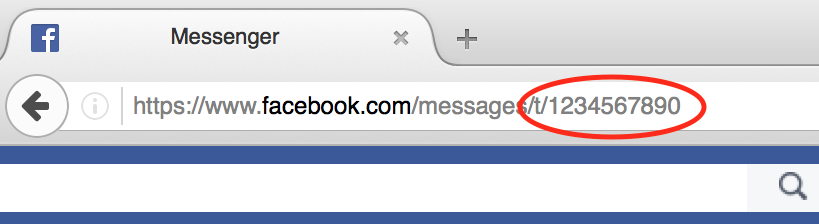
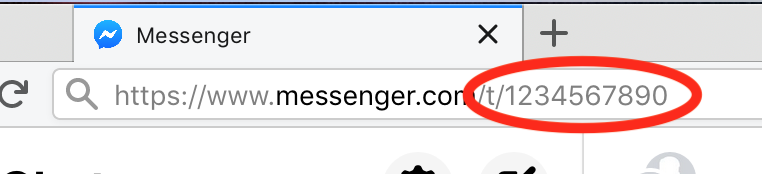
Rewrite introduction documentation

diff --git a/examples/session_handling.py b/examples/session_handling.py
@@ -1,0 +1,42 @@
+# TODO: Consider adding Session.from_file and Session.to_file,
+# which would make this example a lot easier!
+
+import atexit
+import json
+import getpass
+import fbchat
+
+
+def load_cookies(filename):
+    try:
+        # Load cookies from file
+        with open(filename) as f:
+            return json.load(f)
+    except FileNotFoundError:
+        return  # No cookies yet
+
+
+def save_cookies(filename, cookies):
+    with open(filename, "w") as f:
+        json.dump(f, cookies)
+
+
+def load_session(cookies):
+    if not cookies:
+        return
+    try:
+        return fbchat.Session.from_cookies(cookies)
+    except fbchat.FacebookError:
+        return  # Failed loading from cookies
+
+
+cookies = load_cookies("session.json")
+session = load_session(cookies)
+if not session:
+    # Session could not be loaded, login instead!
+    session = fbchat.Session.login("<email>", getpass.getpass())
+
+# Save session cookies to file when the program exits
+atexit.register(lambda: save_cookies("session.json", session.get_cookies()))
+
+# Do stuff with session here

diff --git a/docs/intro.rst b/docs/intro.rst
@@ -1,194 +1,150 @@
-.. _intro:
-
 Introduction
 ============
 
-``fbchat`` uses your email and password to communicate with the Facebook server.
-That means that you should always store your password in a separate file, in case e.g. someone looks over your shoulder while you're writing code.
-You should also make sure that the file's access control is appropriately restrictive
+Welcome, this page will guide you through the basic concepts of using ``fbchat``.
 
+The hardest, and most error prone part is logging in, and managing your login session, so that is what we will look at first.
 
-.. _intro_logging_in:
 
 Logging In
 ----------
 
-Simply create an instance of `Client`. If you have two factor authentication enabled, type the code in the terminal prompt
-(If you want to supply the code in another fashion, overwrite `Client.on_2fa_code`)::
+Everything in ``fbchat`` starts with getting an instance of `Session`. Currently there are two ways of doing that, `Session.login` and `Session.from_cookies`.
 
-    from fbchat import Client
-    from fbchat.models import *
-    client = Client('<email>', '<password>')
+The follow example will prompt you for you password, and use it to login::
 
-Replace ``<email>`` and ``<password>`` with your email and password respectively
+    import getpass
+    import fbchat
+    session = fbchat.Session.login("<email/phone number>", getpass.getpass())
+    # If your account requires a two factor authentication code:
+    session = fbchat.Session.login(
+        "<your email/phone number>",
+        getpass.getpass(),
+        lambda: getpass.getpass("2FA code"),
+    )
 
-.. note::
-    For ease of use then most of the code snippets in this document will assume you've already completed the login process
-    Though the second line, ``from fbchat.models import *``, is not strictly necessary here, later code snippets will assume you've done this
+However, **this is not something you should do often!** Logging in/out all the time *will* get your Facebook account locked!
 
-If you want to change how verbose ``fbchat`` is, change the logging level (in `Client`)
+Instead, you should start by using `Session.login`, and then store the cookies with `Session.get_cookies`, so that they can be used instead the next time your application starts.
 
-Throughout your code, if you want to check whether you are still logged in, use `Client.is_logged_in`.
-An example would be to login again if you've been logged out, using `Client.login`::
+Usability-wise, this is also better, since you won't have to re-type your password every time you want to login.
 
-    if not client.is_logged_in():
-        client.login('<email>', '<password>')
+The following, quite lengthy, yet very import example, illustrates a way to do this:
 
-When you're done using the client, and want to securely logout, use `Client.logout`::
+.. literalinclude:: ../examples/session_handling.py
 
-    client.logout()
+Assuming you have successfully completed the above, congratulations! Using ``fbchat`` should be mostly trouble free from now on!
 
 
-.. _intro_threads:
+Understanding Thread Ids
+------------------------
 
-Threads
--------
+At the core of any thread is its unique identifier, its ID.
 
-A thread can refer to two things: A Messenger group chat (`Group`) or a single Facebook user (`User`).
+A thread basically just means "something I can chat with", but more precisely, it can refer to a few things:
+- A Messenger group thread (`Group`)
+- The conversation between you and a single Facebook user (`User`)
+- The conversation between you and a Facebook Page (`Page`)
 
-Searching for group chats and finding their ID can be done via. `Client.search_for_groups`,
-and searching for users is possible via. `Client.search_for_users`. See :ref:`intro_fetching`
+You can get your own user ID with `Session.user_id`.
 
-You can get your own user ID by using `Session.user_id`
+Getting the ID of a specific group thread is fairly trivial, you only need to login to `<https://www.messenger.com/>`_, click on the group you want to find the ID of, and then read the id from the address bar.
+The URL will look something like this: ``https://www.messenger.com/t/1234567890``, where ``1234567890`` would be the ID of the group.
 
-Getting the ID of a group chat is fairly trivial otherwise, since you only need to navigate to `<https://www.facebook.com/messages/>`_,
-click on the group you want to find the ID of, and then read the id from the address bar.
-The URL will look something like this: ``https://www.facebook.com/messages/t/1234567890``, where ``1234567890`` would be the ID of the group.
-An image to illustrate this is shown below:
+The same method can be applied to some user accounts, though if they have set a custom URL, then you will have to use a different method.
+
+An image to illustrate the process is shown below:
 
 .. image:: /_static/find-group-id.png
     :alt: An image illustrating how to find the ID of a group
 
-The same method can be applied to some user accounts, though if they've set a custom URL, then you'll just see that URL instead
+Once you have an ID, you can use it to create a `Group` or a `User` instance, which will allow you to do all sorts of things. To do this, you need a valid, logged in session::
 
-Here's an snippet showing the usage of thread IDs and thread types, where ``<user id>`` and ``<group id>``
-corresponds to the ID of a single user, and the ID of a group respectively::
+    group = fbchat.Group(session=session, id="<The id you found>")
+    # Or for user threads
+    user = fbchat.User(session=session, id="<The id you found>")
 
-    user.send(Message(text='<message>'))
-    group.send(Message(text='<message>'))
+Just like threads, every message, poll, plan, attachment, action etc. you send or do on Facebook has a unique ID.
 
-Some functions don't require a thread type, so in these cases you just provide the thread ID::
+Below is an example of using such a message ID to get a `Message` instance::
 
-    thread = fbchat.Thread(session=session, id="<user-or-group-id>")
-    thread.set_color("#a695c7")
-    thread.set_color("#67b868")
+    # Provide the thread the message was created in, and it's ID
+    message = fbchat.Message(thread=user, id="<The message id>")
 
-
-.. _intro_message_ids:
-
-Message IDs
------------
-
-Every message you send on Facebook has a unique ID, and every action you do in a thread,
-like changing a nickname or adding a person, has a unique ID too.
-
-This snippet shows how to send a message, and then use the returned ID to react to that message with a 😍 emoji::
-
-    message = thread.send_text("A message!")
-    message.react("😍")
-
-
-.. _intro_interacting:
-
-Interacting with Threads
-------------------------
-
-``fbchat`` provides multiple functions for interacting with threads
-
-Most functionality works on all threads, though some things,
-like adding users to and removing users from a group chat, logically only works on group chats
-
-The simplest way of using ``fbchat`` is to send a message.
-The following snippet will, as you've probably already figured out, send the message ``test message`` to your account::
-
-    user = User(session=session, id=session.user_id)
-    message_id = user.send(Message(text='test message'))
-
-You can see a full example showing all the possible thread interactions with ``fbchat`` by going to :ref:`examples`
-
-
-.. _intro_fetching:
 
 Fetching Information
 --------------------
 
-You can use ``fbchat`` to fetch basic information like user names, profile pictures, thread names and user IDs
+Managing these ids yourself quickly becomes very cumbersome! Luckily, there are other, easier ways of getting `Group`/`User` instances.
 
-You can retrieve a user's ID with `Client.search_for_users`.
-The following snippet will search for users by their name, take the first (and most likely) user, and then get their user ID from the result::
+You would start by creating a `Client` instance, which is basically just a helper on top of `Session`, that will allow you to do various things::
 
-    users = client.search_for_users('<name of user>')
-    user = users[0]
-    print("User's ID: {}".format(user.id))
-    print("User's name: {}".format(user.name))
-    print("User's profile picture URL: {}".format(user.photo))
-    print("User's main URL: {}".format(user.url))
+    client = fbchat.Client(session=session)
 
-Since this uses Facebook's search functions, you don't have to specify the whole name, first names will usually be enough
+Now, you could search for threads using `Client.search_for_threads`, or fetch a list of them using `Client.fetch_threads`::
 
-You can see a full example showing all the possible ways to fetch information with ``fbchat`` by going to :ref:`examples`
+    # Fetch the 5 most likely search results
+    # Uses Facebook's search functions, you don't have to specify the whole name, first names will usually be enough
+    threads = list(client.search_for_threads("<name of the thread to search for>", limit=5))
+    # Fetch the 5 most recent threads in your account
+    threads = list(client.fetch_threads(limit=5))
 
+Note the `list` statements; this is because the methods actually return `generators <https://wiki.python.org/moin/Generators>`__. If you don't know what that means, don't worry, it is just something you can use to make your code faster later.
 
-.. _intro_sessions:
+The examples above will actually fetch `UserData`/`GroupData`, which are subclasses of `User`/`Group`. These model have extra properties, so you could for example print the names and ids of the fetched threads like this::
 
-Sessions
---------
+    for thread in threads:
+        print(f"{thread.id}: {thread.name}")
 
-``fbchat`` provides functions to retrieve and set the session cookies.
-This will enable you to store the session cookies in a separate file, so that you don't have to login each time you start your script.
-Use `Client.get_gession` to retrieve the cookies::
+Once you have a thread, you can use that to fetch the messages therein::
 
-    session_cookies = client.get_gession()
-
-Then you can use `Client.set_gession`::
-
-    client.set_gession(session_cookies)
-
-Or you can set the ``session_cookies`` on your initial login.
-(If the session cookies are invalid, your email and password will be used to login instead)::
-
-    client = Client('<email>', '<password>', session_cookies=session_cookies)
-
-.. warning::
-    You session cookies can be just as valuable as you password, so store them with equal care
+    for message in thread.fetch_messages(limit=20):
+        print(message.text)
 
 
-.. _intro_events:
+Interacting with Threads
+------------------------
+
+Once you have a `User`/`Group` instance, you can do things on them as described in `ThreadABC`, since they are subclasses of that.
+
+Some functionality, like adding users to a `Group`, or blocking a `User`, logically only works the relevant threads, so see the full API documentation for that.
+
+With that out of the way, let's see some examples!
+
+The simplest way of interracting with a thread is by sending a message::
+
+    # Send a message to the user
+    message = user.send_text("test message")
+
+There are many types of messages you can send, see the full API documentation for more.
+
+Notice how we held on to the sent message? The return type i a `Message` instance, so you can interract with it afterwards::
+
+    # React to the message with the 😍 emoji
+    message.react("😍")
+
+Besides sending messages, you can also interract with threads in other ways. An example is to change the thread color::
+
+    # Will change the thread color to the default blue
+    thread.set_color("#0084ff")
+
 
 Listening & Events
 ------------------
 
-To use the listening functions ``fbchat`` offers (like `Client.listen`),
-you have to define what should be executed when certain events happen.
-By default, (most) events will just be a `logging.info` statement,
-meaning it will simply print information to the console when an event happens
+Now, we are finally at the point we have all been waiting for: Creating an automatic Facebook bot!
 
-.. note::
-    You can identify the event methods by their ``on`` prefix, e.g. ``on_message``
+To get started, you create your methods that will handle your events::
 
-The event actions can be changed by subclassing the `Client`, and then overwriting the event methods::
+    def on_message(event):
+        print(f"Message from {event.author.id}: {event.message.text}")
 
-    class CustomClient(Client):
-        def on_message(self, mid, author_id, message_object, thread, ts, metadata, msg, **kwargs):
-            # Do something with message_object here
-            pass
+And then you create a listener object, and start handling the incoming events::
 
-    client = CustomClient('<email>', '<password>')
+    listener = fbchat.Listener.connect(session, False, False)
 
-**Notice:** The following snippet is as equally valid as the previous one::
+    for event in listener.listen():
+        if isinstance(event, fbchat.MessageEvent):
+            on_message(event)
 
-    class CustomClient(Client):
-        def on_message(self, message_object, author_id, thread, **kwargs):
-            # Do something with message_object here
-            pass
-
-    client = CustomClient('<email>', '<password>')
-
-The change was in the parameters that our ``on_message`` method took: ``message_object`` and ``author_id`` got swapped,
-and ``mid``, ``ts``, ``metadata`` and ``msg`` got removed, but the function still works, since we included ``**kwargs``
-
-.. note::
-    Therefore, for both backwards and forwards compatibility,
-    the API actually requires that you include ``**kwargs`` as your final argument.
-
-View the :ref:`examples` to see some more examples illustrating the event system
+View the :ref:`examples` to see some more examples illustrating the event system.
